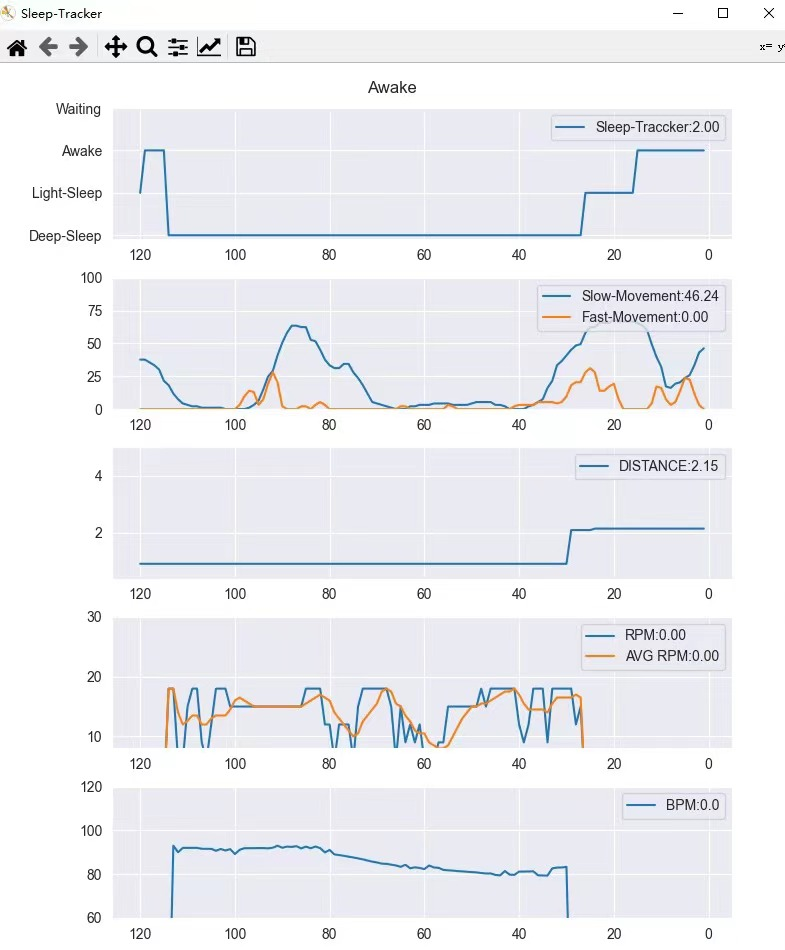
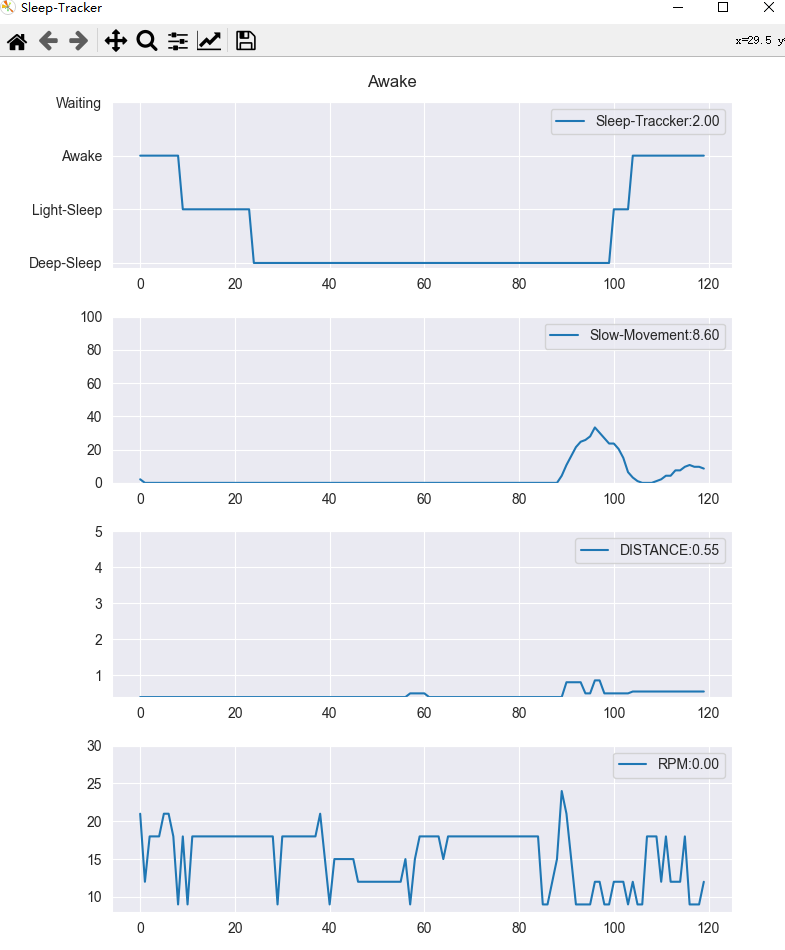
'v1'

diff --git a/docs/Disclaimer/README.md b/docs/Disclaimer/README.md
@@ -1,0 +1,14 @@
+---
+sort: 99
+---
+
+# Disclaimer
+
+
+The information herein is believed to be correct as of the date issued. AIWiSe will not be responsible for damages of any nature resulting from the use or reliance upon the information contained herein. AIWiSe makes no warranties, expressed or implied, of merchantability or fitness for a particular purpose or course of performance or usage of trade. Therefore, it is the user’s responsibility to thoroughly test the product in their particular application to determine its performance, efficacy and safety. Users should obtain the latest relevant information before placing orders.
+
+Unless AIWiSe has explicitly designated an individual AIWiSe product as meeting the requirement of a particular industry standard, AIWiSe is not responsible for any failure to meet such industry standard requirements. Unless explicitly stated herein this document AIWiSe has not performed any regulatory conformity test. It is the user’s responsibility to assure that necessary regulatory conditions are met and approvals have been obtained when using the product. Regardless of whether the product has passed any conformity test, this document does not constitute any regulatory approval of the user’s product or application using AIWiSe’s product. Nothing contained herein is to be considered as permission or a recommendation to infringe any patent or any other intellectual property right. No license, express or implied, to any intellectual property right is granted by AIWiSe herein.
+
+AIWiSe reserves the right to at any time correct, change, amend, enhance, modify, and improve this document and/or AIWiSe products without notice. This document supersedes and replaces all information supplied prior to the publication hereof.
+
+In our code you might encounter features tagged “experimental”. This means that the feature in question is an early version that has a limited test scope, and the API and/or functionality might change in upcoming releases. The intention is to let users try these features out and we appreciate feedback.

diff --git a/docs/Sleep-Tracker/README.md b/docs/Sleep-Tracker/README.md
@@ -66,7 +66,7 @@ Now,radar data will be printed out.
   ```shell
   python sleep-tracker.py
   ```
-Figure.3 is a simulation of the process from deep sleep to wake up
+Figure.3 is a simulation of the process From waking to deep sleep, waking from deep sleep.
 <div align=center>
 <img src="https://raw.githubusercontent.com/DeepWiSe888/AIWiSeDoc/main/img/sleepTracker3.jpg" width="785" height="950"/> 
 </div>
